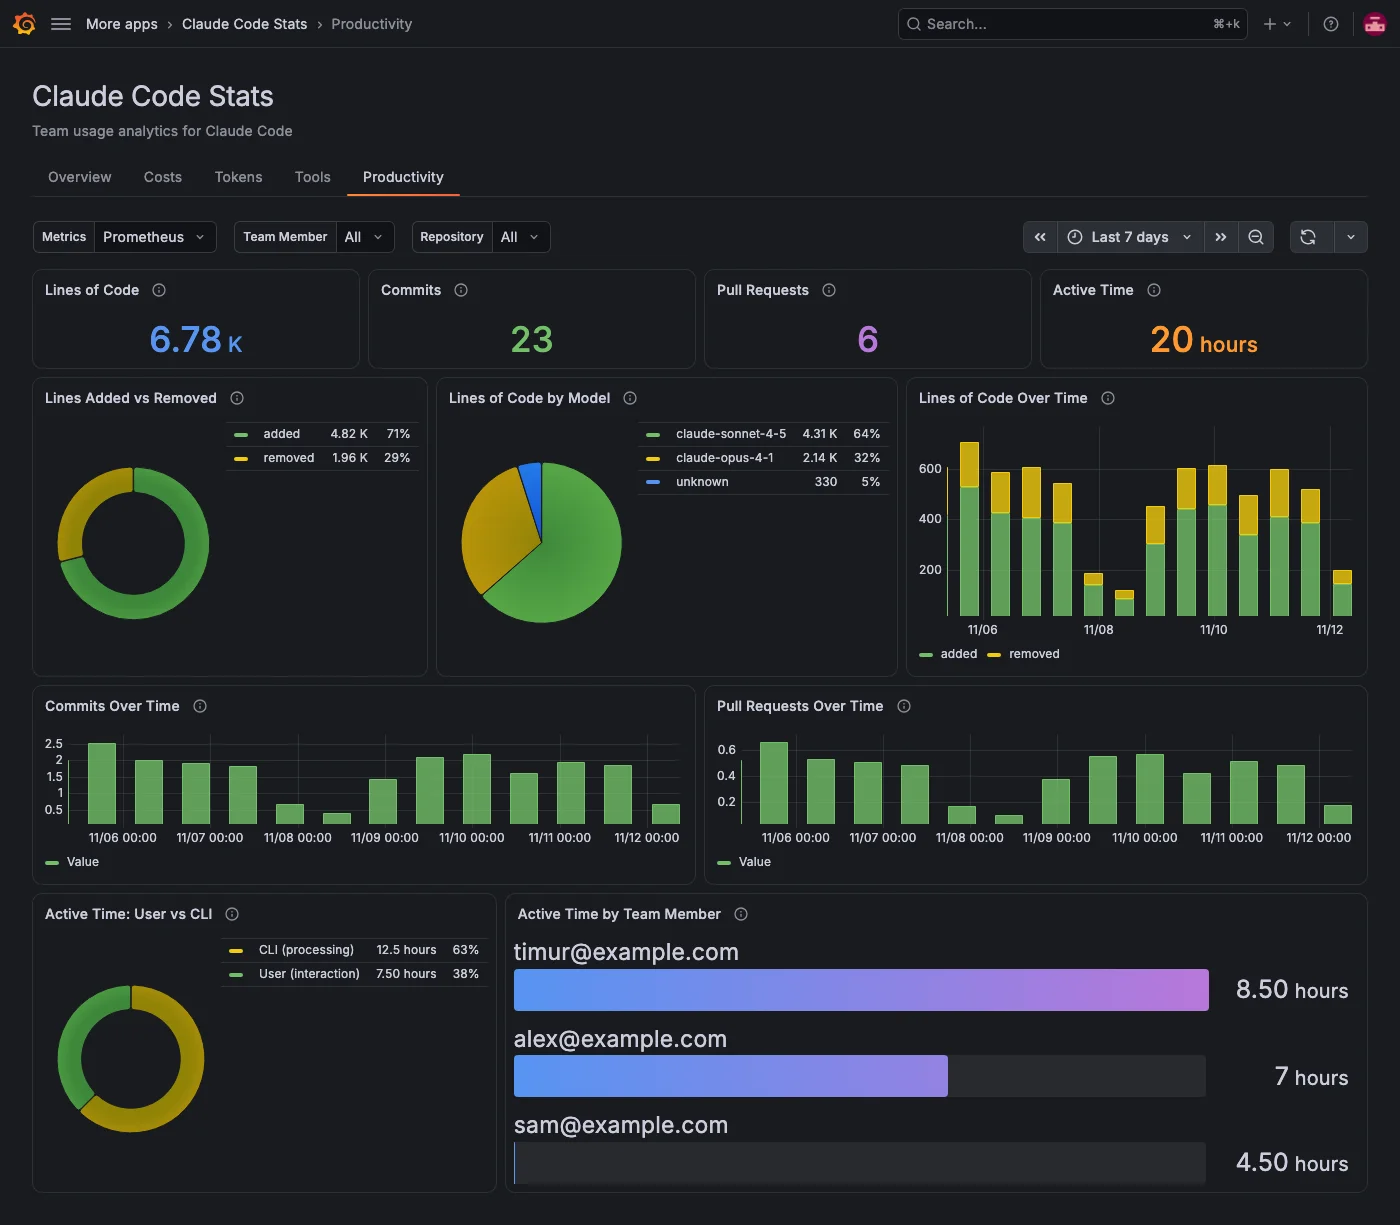
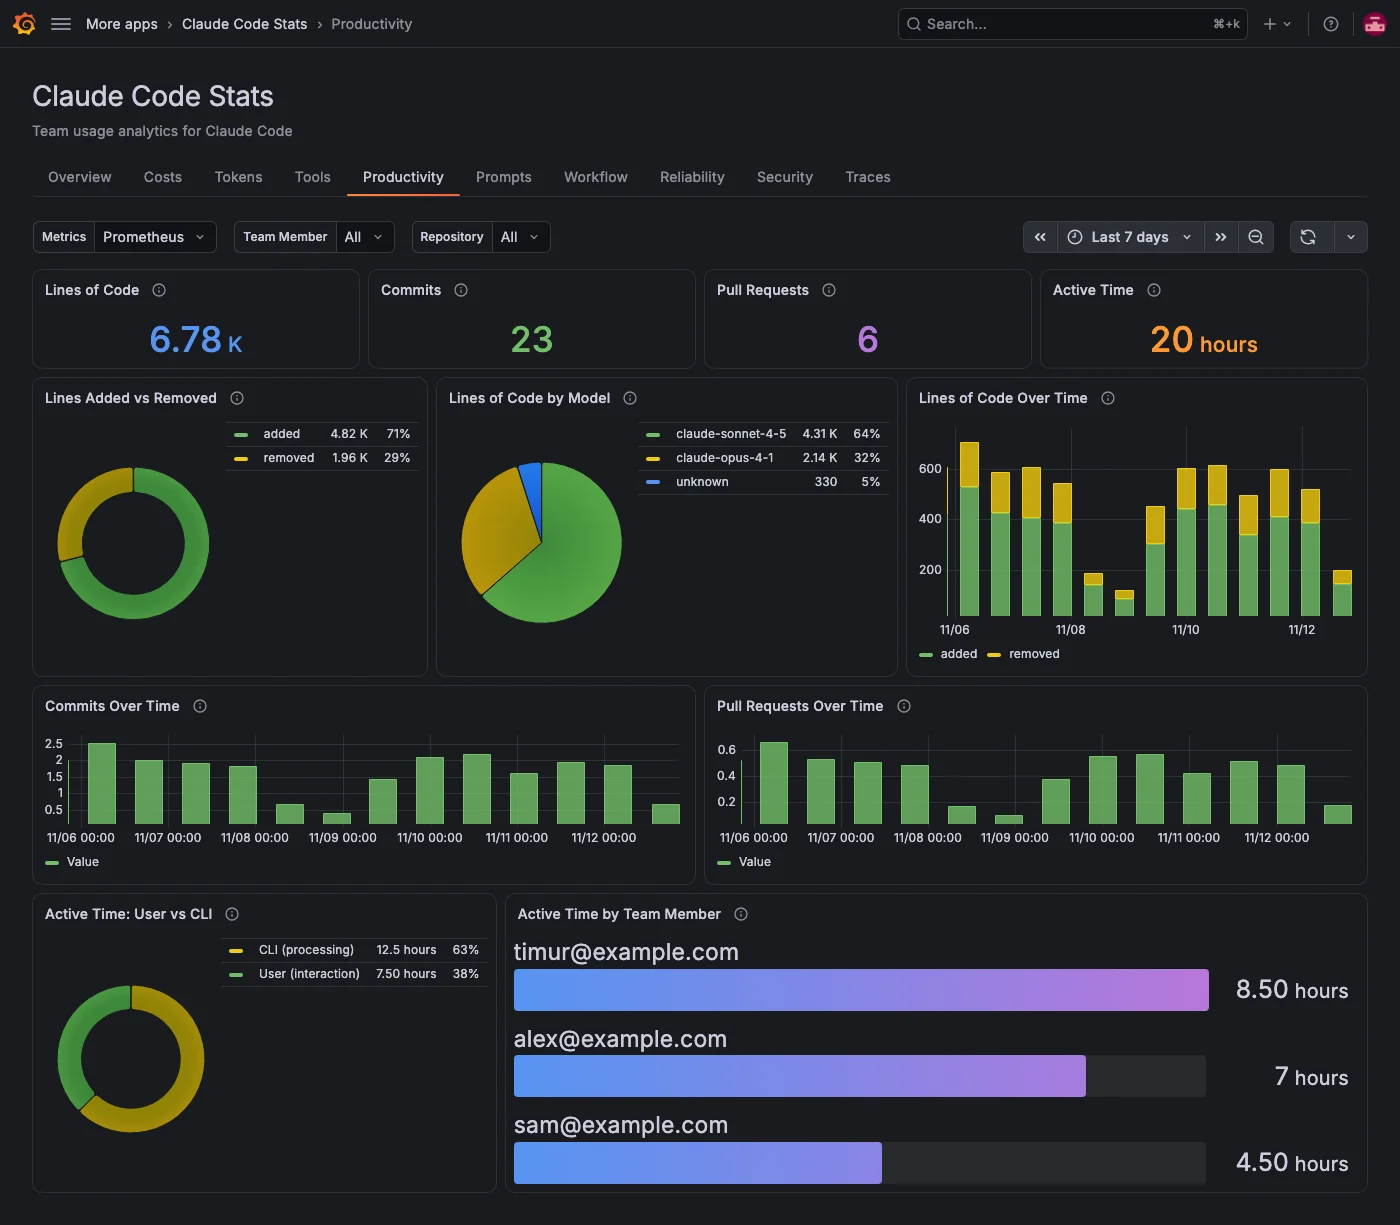
fix: bar gauges start at zero (#91) (#99)
fix: bar gauges start at zero so the smallest bar isn't drawn empty (#91)

diff --git a/src/scenes/panelStyle.ts b/src/scenes/panelStyle.ts
@@ -1,5 +1,13 @@
-import { PanelBuilders } from '@grafana/scenes';
-import { BarAlignment, GraphDrawStyle, StackingMode, VisibilityMode } from '@grafana/schema';
+import { PanelBuilders, SceneQueryRunner } from '@grafana/scenes';
+import {
+  BarAlignment,
+  BarGaugeDisplayMode,
+  BarGaugeValueMode,
+  GraphDrawStyle,
+  StackingMode,
+  VisibilityMode,
+  VizOrientation,
+} from '@grafana/schema';
 
 /**
  * Query options for the "Over Time" panels. Each point is the amount for one
@@ -40,3 +48,61 @@ export function overTimeBars() {
  * gradient made the biggest bucket look like a problem.
  */
 export const BAR_GAUGE_COLOR = { mode: 'continuous-BlPu' } as const;
+
+/**
+ * A horizontal bar gauge, one bar per series, labelled with the series name.
+ * Bars start at zero: without a min, Grafana scales from the smallest value,
+ * so the smallest bar (or a single bar) is drawn empty.
+ */
+export function horizontalBars() {
+  return PanelBuilders.bargauge()
+    .setMin(0)
+    .setOption('displayMode', BarGaugeDisplayMode.Gradient)
+    .setColor(BAR_GAUGE_COLOR)
+    .setOption('orientation', VizOrientation.Horizontal)
+    .setOption('valueMode', BarGaugeValueMode.Text)
+    .setOption('showUnfilled', true)
+    .setOption('minVizWidth', 150)
+    .setOption('minVizHeight', 25)
+    .setDisplayName('${__series.name}');
+}
+
+/**
+ * A horizontal bar gauge with one bar per attribution bucket, mirroring the
+ * "Usage by Tool" gauge on the Tools page. The query is a plain instant
+ * multi-series vector (`sort_desc(...)` in PromQL puts the biggest bucket
+ * first); `legendFormat` names each series after `labelKey`, and
+ * `${__series.name}` surfaces that name as the bar label.
+ */
+export function attributionBarGauge(
+  refId: string,
+  expr: string,
+  labelKey: string,
+  title: string,
+  unit: string,
+  {
+    legendFormat = `{{${labelKey}}}`,
+    noValue,
+    description,
+  }: {
+    /** Series name, when it's built from more than `labelKey`. */
+    legendFormat?: string;
+    /** Shown instead of "No data", to say what the panel needs. */
+    noValue?: string;
+    /** Panel description, shown as an (i) icon next to the title. */
+    description?: string;
+  } = {}
+) {
+  const data = new SceneQueryRunner({
+    datasource: { type: 'prometheus', uid: '${prometheus_ds}' },
+    queries: [{ refId, expr, legendFormat, instant: true }],
+  });
+
+  return horizontalBars()
+    .setTitle(title)
+    .setDescription(description)
+    .setUnit(unit)
+    .setData(data)
+    .setNoValue(noValue)
+    .build();
+}

diff --git a/src/scenes/pages/CostsScene.ts b/src/scenes/pages/CostsScene.ts
@@ -11,64 +11,10 @@ import {
   SceneTimePicker,
   SceneRefreshPicker,
 } from '@grafana/scenes';
-import {
-  BigValueGraphMode,
-  BarGaugeDisplayMode,
-  BarGaugeValueMode,
-  LegendDisplayMode,
-  VizOrientation,
-} from '@grafana/schema';
+import { BigValueGraphMode, LegendDisplayMode } from '@grafana/schema';
 import { QUERIES, Queries } from '../queries';
-import { BAR_GAUGE_COLOR, OVER_TIME_MIN_STEP, OVER_TIME_QUERY_OPTIONS, overTimeBars } from '../panelStyle';
+import { attributionBarGauge, OVER_TIME_MIN_STEP, OVER_TIME_QUERY_OPTIONS, overTimeBars } from '../panelStyle';
 import { PANEL_HEIGHTS } from '../../constants';
-
-/**
- * A horizontal bar gauge with one bar per attribution bucket, mirroring the
- * "Usage by Tool" gauge on the Tools page. The query is a plain instant
- * multi-series vector (`sort_desc(...)` in PromQL puts the biggest bucket
- * first); `legendFormat` names each series after `labelKey`, and
- * `${__series.name}` surfaces that name as the bar label.
- */
-function attributionBarGauge(
-  refId: string,
-  expr: string,
-  labelKey: string,
-  title: string,
-  unit: string,
-  {
-    legendFormat = `{{${labelKey}}}`,
-    noValue,
-    description,
-  }: {
-    /** Series name, when it's built from more than `labelKey`. */
-    legendFormat?: string;
-    /** Shown instead of "No data", to say what the panel needs. */
-    noValue?: string;
-    /** Panel description, shown as an (i) icon next to the title. */
-    description?: string;
-  } = {}
-) {
-  const data = new SceneQueryRunner({
-    datasource: { type: 'prometheus', uid: '${prometheus_ds}' },
-    queries: [{ refId, expr, legendFormat, instant: true }],
-  });
-
-  return PanelBuilders.bargauge()
-    .setTitle(title)
-    .setDescription(description)
-    .setUnit(unit)
-    .setData(data)
-    .setOption('displayMode', BarGaugeDisplayMode.Gradient)
-    .setColor(BAR_GAUGE_COLOR)
-    .setOption('orientation', VizOrientation.Horizontal)
-    .setOption('valueMode', BarGaugeValueMode.Text)
-    .setOption('showUnfilled', true)
-    .setOption('minVizWidth', 150)
-    .setOption('minVizHeight', 25)
-    .setDisplayName('${__series.name}')
-    .setNoValue(noValue)
-    .build();
-}
 
 // Repository attributes are off by default, so an empty panel usually means they aren't sent.
 const REPOSITORY_HINT = 'No data. Needs OTEL_METRICS_INCLUDE_REPOSITORY=true';

diff --git a/src/scenes/pages/TokensScene.ts b/src/scenes/pages/TokensScene.ts
@@ -11,64 +11,10 @@ import {
   SceneTimePicker,
   SceneRefreshPicker,
 } from '@grafana/scenes';
-import {
-  BigValueGraphMode,
-  BarGaugeDisplayMode,
-  BarGaugeValueMode,
-  LegendDisplayMode,
-  VizOrientation,
-} from '@grafana/schema';
+import { BigValueGraphMode, LegendDisplayMode } from '@grafana/schema';
 import { QUERIES, Queries } from '../queries';
-import { BAR_GAUGE_COLOR, OVER_TIME_MIN_STEP, OVER_TIME_QUERY_OPTIONS, overTimeBars } from '../panelStyle';
+import { attributionBarGauge, OVER_TIME_MIN_STEP, OVER_TIME_QUERY_OPTIONS, overTimeBars } from '../panelStyle';
 import { PANEL_HEIGHTS } from '../../constants';
-
-/**
- * A horizontal bar gauge with one bar per attribution bucket, mirroring the
- * "Usage by Tool" gauge on the Tools page. The query is a plain instant
- * multi-series vector (`sort_desc(...)` in PromQL puts the biggest bucket
- * first); `legendFormat` names each series after `labelKey`, and
- * `${__series.name}` surfaces that name as the bar label.
- */
-function attributionBarGauge(
-  refId: string,
-  expr: string,
-  labelKey: string,
-  title: string,
-  unit: string,
-  {
-    legendFormat = `{{${labelKey}}}`,
-    noValue,
-    description,
-  }: {
-    /** Series name, when it's built from more than `labelKey`. */
-    legendFormat?: string;
-    /** Shown instead of "No data", to say what the panel needs. */
-    noValue?: string;
-    /** Panel description, shown as an (i) icon next to the title. */
-    description?: string;
-  } = {}
-) {
-  const data = new SceneQueryRunner({
-    datasource: { type: 'prometheus', uid: '${prometheus_ds}' },
-    queries: [{ refId, expr, legendFormat, instant: true }],
-  });
-
-  return PanelBuilders.bargauge()
-    .setTitle(title)
-    .setDescription(description)
-    .setUnit(unit)
-    .setData(data)
-    .setOption('displayMode', BarGaugeDisplayMode.Gradient)
-    .setColor(BAR_GAUGE_COLOR)
-    .setOption('orientation', VizOrientation.Horizontal)
-    .setOption('valueMode', BarGaugeValueMode.Text)
-    .setOption('showUnfilled', true)
-    .setOption('minVizWidth', 150)
-    .setOption('minVizHeight', 25)
-    .setDisplayName('${__series.name}')
-    .setNoValue(noValue)
-    .build();
-}
 
 // Repository attributes are off by default, so an empty panel usually means they aren't sent.
 const REPOSITORY_HINT = 'No data. Needs OTEL_METRICS_INCLUDE_REPOSITORY=true';

diff --git a/src/scenes/pages/ProductivityScene.ts b/src/scenes/pages/ProductivityScene.ts
@@ -10,17 +10,10 @@ import {
   SceneTimePicker,
   SceneRefreshPicker,
 } from '@grafana/scenes';
-import {
-  BigValueGraphMode,
-  LegendDisplayMode,
-  GraphDrawStyle,
-  BarGaugeDisplayMode,
-  BarGaugeValueMode,
-  VizOrientation,
-} from '@grafana/schema';
+import { BigValueGraphMode, LegendDisplayMode, GraphDrawStyle } from '@grafana/schema';
 import { ACTIVE_TIME_TYPE_NAMES, QUERIES, Queries } from '../queries';
 import { getControlsWithoutModel } from '../variables';
-import { BAR_GAUGE_COLOR, OVER_TIME_MIN_STEP, OVER_TIME_QUERY_OPTIONS, overTimeBars } from '../panelStyle';
+import { horizontalBars, OVER_TIME_MIN_STEP, OVER_TIME_QUERY_OPTIONS, overTimeBars } from '../panelStyle';
 import { PANEL_HEIGHTS } from '../../constants';
 
 export function getProductivityScene(
@@ -324,19 +317,13 @@ export function getProductivityScene(
             }),
             new SceneFlexItem({
               width: '65%',
-              body: PanelBuilders.bargauge()
+              body: horizontalBars()
                 .setTitle('Active Time by Team Member')
                 .setDescription('Active time per team member. Shows every member regardless of the Team Member filter.')
                 .setUnit('s')
                 .setData(activeTimeByMemberQuery)
-                .setOption('orientation', VizOrientation.Horizontal)
-                .setOption('displayMode', BarGaugeDisplayMode.Gradient)
-                .setColor(BAR_GAUGE_COLOR)
-                .setOption('valueMode', BarGaugeValueMode.Text)
-                .setOption('showUnfilled', true)
                 .setOption('minVizWidth', 200)
                 .setOption('minVizHeight', 50)
-                .setDisplayName('${__series.name}')
                 .build(),
             }),
           ],

diff --git a/src/scenes/pages/ToolsScene.ts b/src/scenes/pages/ToolsScene.ts
@@ -22,7 +22,7 @@ import { DECISION_SOURCE_COLORS, DECISION_SOURCE_NAMES, QUERIES, Queries } from 
 import { getControlsWithoutModel, LOKI_DS_VARIABLE } from '../variables';
 import { buildLogQueries, LogQueries } from '../logQueries';
 import { toolPerformanceRows } from './toolPerformance';
-import { BAR_GAUGE_COLOR, OVER_TIME_MIN_STEP, OVER_TIME_QUERY_OPTIONS, overTimeBars } from '../panelStyle';
+import { horizontalBars, OVER_TIME_MIN_STEP, OVER_TIME_QUERY_OPTIONS, overTimeBars } from '../panelStyle';
 import { PANEL_HEIGHTS } from '../../constants';
 
 // A low acceptance rate means many proposed edits are rejected, so red/yellow/green
@@ -180,19 +180,11 @@ export function getToolsScene(
             }),
             new SceneFlexItem({
               width: '40%',
-              body: PanelBuilders.bargauge()
+              body: horizontalBars()
                 .setTitle('Usage by Tool')
                 .setDescription('Edit decisions per tool: Edit, Write or NotebookEdit.')
                 .setUnit('short')
                 .setData(toolDecisionsByToolQuery)
-                .setOption('displayMode', BarGaugeDisplayMode.Gradient)
-                .setColor(BAR_GAUGE_COLOR)
-                .setOption('orientation', VizOrientation.Horizontal)
-                .setOption('valueMode', BarGaugeValueMode.Text)
-                .setOption('showUnfilled', true)
-                .setOption('minVizWidth', 150)
-                .setOption('minVizHeight', 25)
-                .setDisplayName('${__series.name}')
                 .build(),
             }),
           ],

diff --git a/tests/costs.spec.ts b/tests/costs.spec.ts
@@ -1,5 +1,5 @@
 import { test, expect } from './fixtures';
-import { panelByTitle, legendItem } from './mocks/panels';
+import { barFillWidths, panelByTitle, legendItem } from './mocks/panels';
 import {
   mockEmptyPanels,
   DISPLAY,
@@ -55,6 +55,17 @@ test.describe('Costs scene', () => {
     }
     for (const model of MODELS) {
       await expect(table.getByText(model, { exact: true }).first()).toBeVisible();
+    }
+  });
+
+  test('bar gauges start at zero, so the smallest bar is still drawn', async ({ mockData, gotoPage, selectors }) => {
+    const app = await gotoPage('costs');
+
+    for (const title of ['Cost by Query Source', 'Cost by Subagent', 'Cost by MCP Server']) {
+      const widths = await barFillWidths(panelByTitle(app, selectors, title));
+      expect(widths.length, title).toBeGreaterThan(1);
+      // Scaled from the smallest value, the last bar was drawn with no fill at all.
+      expect(Math.min(...widths), title).toBeGreaterThan(2);
     }
   });
 

diff --git a/tests/mocks/panels.ts b/tests/mocks/panels.ts
@@ -29,3 +29,20 @@ export function legendItem(
 ): Locator {
   return panelByTitle(appPage, selectors, panelTitle).getByText(seriesName, { exact: true }).first();
 }
+
+/**
+ * Width in pixels of each bar's filled part in a bar gauge panel, top to bottom.
+ * The filled part is the bar element drawn with a gradient; the unfilled track
+ * next to it has no background image.
+ */
+export async function barFillWidths(panel: Locator): Promise<number[]> {
+  await panel.getByTestId('data-testid Bar gauge value').first().waitFor();
+  return panel.getByTestId('data-testid Bar gauge value').evaluateAll((values) =>
+    values.map((value) => {
+      const fill = Array.from(value.parentElement?.children ?? []).find(
+        (el) => getComputedStyle(el).backgroundImage !== 'none'
+      );
+      return fill ? fill.getBoundingClientRect().width : 0;
+    })
+  );
+}

diff --git a/CHANGELOG.md b/CHANGELOG.md
@@ -48,6 +48,7 @@
 - The Cache Read stat was always empty (#57)
 - The Model picker is hidden on tabs whose metrics have no model label (#57)
 - Over Time charts no longer drop counter jumps between bars, and use a 1m minimum step (#76, #77)
+- Bar gauges start at zero, so the smallest bar or a single bar is no longer drawn empty (#91)
 
 ## 1.1.0
 
